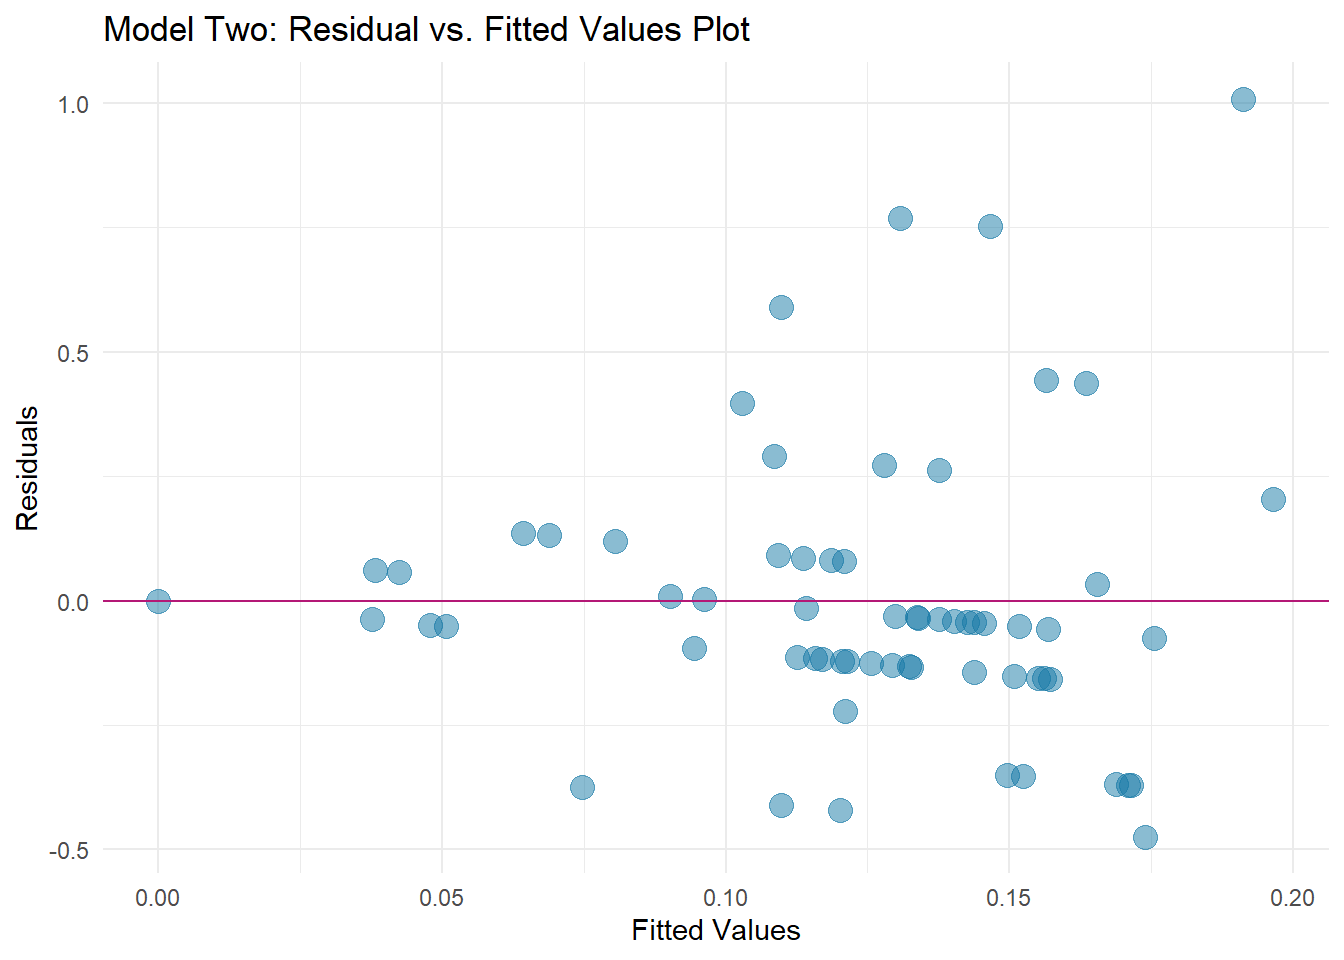
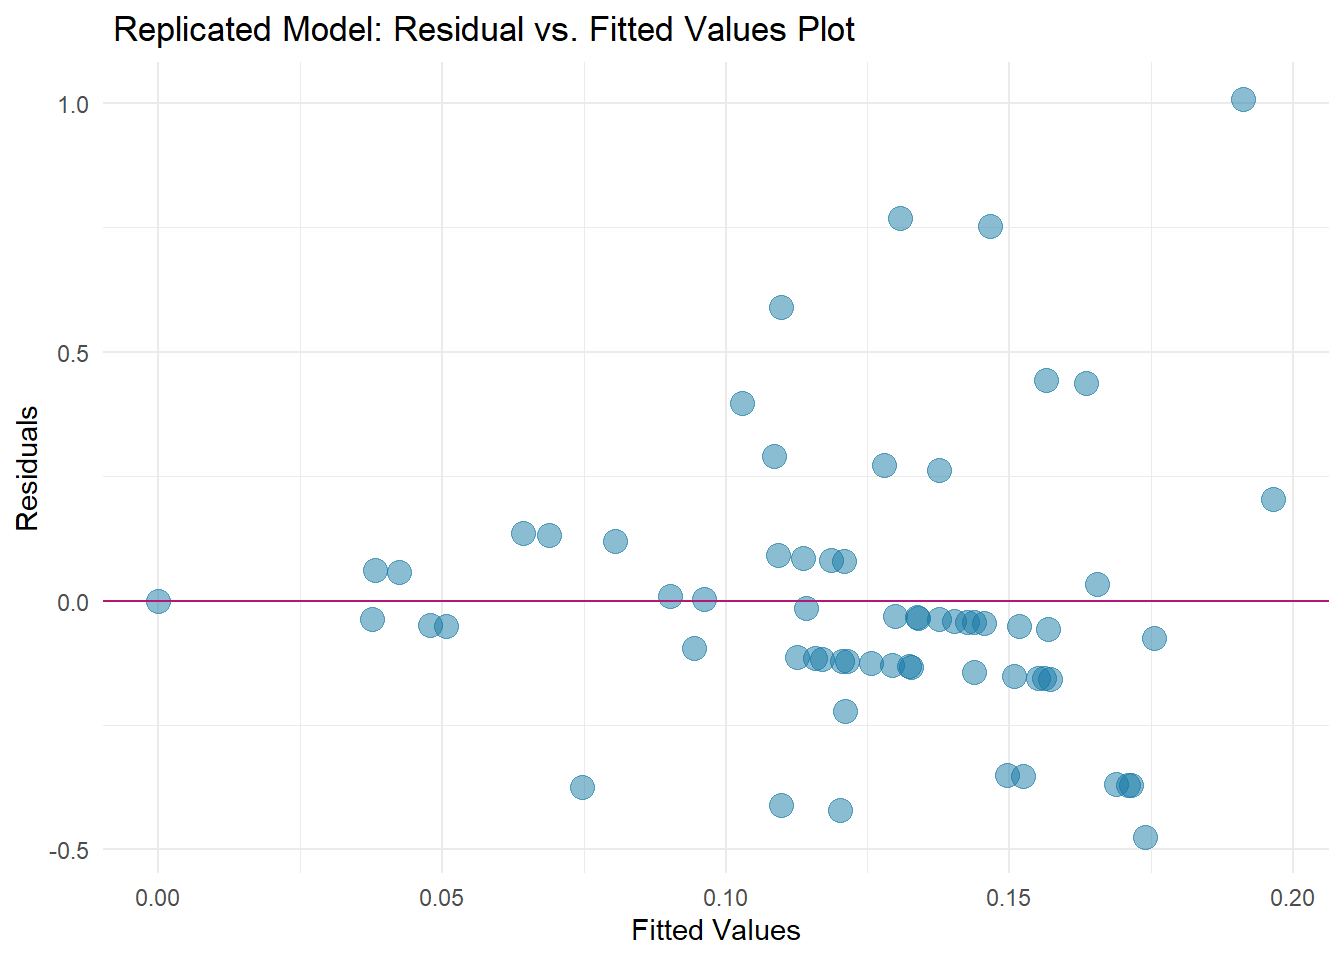
Wrote the conclusion

Changed region(s): [[0.0625, 0.0, 0.625, 0.0625]]

diff --git a/docs/Final Report.html b/docs/Final Report.html
@@ -7,7 +7,7 @@
 <meta name="viewport" content="width=device-width, initial-scale=1.0, user-scalable=yes">
 
 
-<title>replicating nimby – final-report_draft</title>
+<title>replicating nimby – final-report</title>
 <style>
 code{white-space: pre-wrap;}
 span.smallcaps{font-variant: small-caps;}
@@ -166,7 +166,7 @@ div.csl-indent {
           <div class="collapse navbar-collapse" id="navbarCollapse">
             <ul class="navbar-nav navbar-nav-scroll me-auto">
   <li class="nav-item">
-    <a class="nav-link active" href="./Final Report_draft.html" aria-current="page">
+    <a class="nav-link active" href="./Final Report.html" aria-current="page">
  <span class="menu-text">final report</span></a>
   </li>  
   <li class="nav-item">
@@ -211,7 +211,7 @@ div.csl-indent {
     <h2 id="toc-title">On this page</h2>
    
   <ul>
-  <li><a href="#the-final-report-draft" id="toc-the-final-report-draft" class="nav-link active" data-scroll-target="#the-final-report-draft">The Final Report (DRAFT)</a>
+  <li><a href="#the-final-report" id="toc-the-final-report" class="nav-link active" data-scroll-target="#the-final-report">The Final Report</a>
   <ul class="collapse">
   <li><a href="#introduction" id="toc-introduction" class="nav-link" data-scroll-target="#introduction">- Introduction</a></li>
   <li><a href="#related-works" id="toc-related-works" class="nav-link" data-scroll-target="#related-works">- Related Works</a></li>
@@ -224,7 +224,7 @@ div.csl-indent {
   <li><a href="#conclusions" id="toc-conclusions" class="nav-link" data-scroll-target="#conclusions">- Conclusions</a>
   <ul class="collapse">
   <li><a href="#comparing-the-dependent-and-independent-variables" id="toc-comparing-the-dependent-and-independent-variables" class="nav-link" data-scroll-target="#comparing-the-dependent-and-independent-variables">Comparing the Dependent and Independent Variables:</a></li>
-  <li><a href="#evaluating-the-model" id="toc-evaluating-the-model" class="nav-link" data-scroll-target="#evaluating-the-model">Evaluating the Model</a></li>
+  <li><a href="#evaluating-my-model" id="toc-evaluating-my-model" class="nav-link" data-scroll-target="#evaluating-my-model">Evaluating My Model</a></li>
   </ul></li>
   </ul></li>
   <li><a href="#final-thoughts" id="toc-final-thoughts" class="nav-link" data-scroll-target="#final-thoughts">Final Thoughts:</a>
@@ -249,8 +249,8 @@ div.csl-indent {
 <p><img src="images/Main Title.png" class="img-fluid figure-img"></p>
 </figure>
 </div>
-<section id="the-final-report-draft" class="level1">
-<h1>The Final Report (DRAFT)</h1>
+<section id="the-final-report" class="level1">
+<h1>The Final Report</h1>
 <section id="introduction" class="level2">
 <h2 class="anchored" data-anchor-id="introduction">- Introduction</h2>
 <p>Somewhere in my mother’s basement, is my prized 1995 tie-dyed <a href="https://dare.org/">DARE</a> tee-shirt, a paradoxical relic of elementary classroom hours spent discussing the dangers of peer-led drug use. &nbsp;Those fears were not unwarranted, the CDC (Center for Disease Control) reports that 136 Americans die daily from opioids and illicitly manufactured fentanyl<a href="#fn1" class="footnote-ref" id="fnref1" role="doc-noteref"><sup>1</sup></a>, for me - a friend or three. In my experience, most drug prevention programs portray cannabis as the catalyst to the life doomed by addiction.</p>
@@ -261,13 +261,13 @@ div.csl-indent {
 </section>
 <section id="related-works" class="level2">
 <h2 class="anchored" data-anchor-id="related-works">- Related Works</h2>
-<p>A related and noteworthy body of work is the 2021 meta-analysis conducted by D. Mark Anderson and Daniel I. Rees’ paper “<a href="https://www.aeaweb.org/articles?id=10.1257%2Fjel.20211635&amp;utm_campaign=Economic%20Studies&amp;utm_source=hs_email&amp;utm_medium=email"><em>The Public Health Effects of Legalizing Marijuana</em></a>.” The appendix presents an extensive comparison of 70 studies related to the impact of marijuana legalization on public health outcomes by empirical strategy, and study results. This paper served as an excellent resource to understand the myriad of ways in which this topic is being studied, including the study I will replicate. The authors ultimately conclude that while the existing body of research benefits from a wealth of state-level data, the outcomes remain inconclusive. Further research along with careful policy design is needed to mitigate the negative impact of legalization on crime rates and other outcomes.</p>
+<p>A related and noteworthy body of work is the 2021 meta-analysis conducted by D. Mark Anderson and Daniel I. Rees’ paper “<a href="https://www.aeaweb.org/articles?id=10.1257%2Fjel.20211635&amp;utm_campaign=Economic%20Studies&amp;utm_source=hs_email&amp;utm_medium=email"><em>The Public Health Effects of Legalizing Marijuana</em></a>.” The appendix presents an extensive comparison of 70 studies related to the impact of marijuana legalization on public health outcomes by empirical strategy, and study results. This paper served as an excellent resource to understand the myriad of ways in which this topic is being studied, including NIMBY, the research I will replicate. The authors ultimately conclude that while the existing body of research benefits from a wealth of state-level data, the outcomes remain inconclusive. Further research along with careful policy design is needed to mitigate the negative impact of legalization on crime rates and other outcomes.</p>
 <p>In contrast, the 2019 paper “<a href="https://www.tandfonline.com/doi/abs/10.1080/07418825.2019.1567807"><em>Marijuana Dispensaries and Neighborhood Crime and Disorder in Denver</em></a><em>,</em> Colorado” by Lorrine A. Hughes, Lonnie M. Schaible, and Katherine Jimmerson offers contradictory findings. Utilizing a Bayesian Poisson regression model, the authors discovered a statistically significant correlation between the presence of dispensaries and increased rates of neighborhood crime—except for murder and auto theft. This study highlights the complexities of the issue and the necessity for a more nuanced understanding of the interplay between cannabis dispensaries and crime rates.</p>
 <p><img src="https://www.netsuite.com/portal/assets/img/business-articles/data-warehouse/social-data-mining.jpg?v2" class="img-fluid" width="688"></p>
 </section>
 <section id="methods" class="level2">
 <h2 class="anchored" data-anchor-id="methods">- Methods</h2>
-<p>While all of the data referenced in NIMBY is publicly available, I found it necessary to deviate from the original’s papers methodology due to data quality issues and time constraints.</p>
+<p>While all of the data referenced in NIMBY is publicly available, I found it necessary to deviate from the original paper’s methodology due to data quality issues and time constraints.</p>
 <p>My diagram below illustrates the utilization of R code to construct a data pipeline for the linear model and its associated variables.</p>
 <p>In the interest of interpretability, I divided my work into four distinct segments, each highlighted in the navigation bar of this site. I hope this structured breakdown allows readers to navigate through my process efficiently, providing transparent insight into my methods employed and limitations faced throughout this project.</p>
 <p><img src="images/methodology.png" class="img-fluid"></p>
@@ -347,11 +347,11 @@ div.csl-indent {
 <p></p><figcaption class="figure-caption"><strong>how to read:</strong> “<em>The panels of this figure show the total number of store fronts (calculated using data from Colorado Department of Revenue) cross tabbed by stores that sell only medical marijuana (green), both medical and recreational marijuana (red), and only recreational marijuana (blue). The vertical red line shows the first date (January 1, 2014) when recreational sales were legal.</em>” (Brinkman Pg. 5)</figcaption><p></p>
 </figure>
 </div>
-<p><strong>interpretation:</strong> Once recreational cannabis was legalized in Colorado, we see a many dispensaries begin selling both recreational and medical products. In 2015 Retail only store begin their growth trajectory while medical and both types remain relatively flat.</p>
+<p><strong>interpretation:</strong> Once recreational cannabis was legalized in Colorado, we see many dispensaries begin selling both recreational and medical products. In 2015 recreational only stores begin their growth trajectory while medical and both store fronts remain relatively flat.</p>
 <section id="replicated-area-graph" class="level4">
 <h4 class="anchored" data-anchor-id="replicated-area-graph">Replicated Area Graph</h4>
 <p><img src="images/dsp_growth.png" class="img-fluid"></p>
-<p><strong>comparison:</strong> Although I applied a different approach, my total counts are similar to the original study. The graph tells a similar story as the one above, outside of the the missing data sets in 2016 .</p>
+<p><strong>comparison:</strong> Although I applied a different approach, my total counts are similar to the original study. My graph tells a comparable story as the plot above, but there are a few plots that look suspicious. With more time, I would investigate and validate the sharp dips seen in early 2015 and 2016.</p>
 <p><br>
 </p>
 </section>
@@ -379,26 +379,21 @@ div.csl-indent {
 <h2 class="anchored" data-anchor-id="conclusions">- Conclusions</h2>
 <section id="comparing-the-dependent-and-independent-variables" class="level3">
 <h3 class="anchored" data-anchor-id="comparing-the-dependent-and-independent-variables">Comparing the Dependent and Independent Variables:</h3>
+<p>Does dispensary density (green) influence crime rate (magenta)?</p>
 <div class="quarto-figure quarto-figure-center">
 <figure class="figure">
 <p><img src="images/co_map.png" class="img-fluid figure-img" width="731"></p>
-<p></p><figcaption class="figure-caption"><strong>how to read:</strong> <em>the three-year average of crimes per 10,000 residents are plotted by Colorado county, overlaid by the three year average count of dispensaries with in the county.</em></figcaption><p></p>
+<p></p><figcaption class="figure-caption"><strong>how to read:</strong> <em>the three-year average of crimes per 10,000 residents are plotted by Colorado county, overlaid by the three-year average county total dispensary count.</em></figcaption><p></p>
 </figure>
 </div>
-<p><strong>interpretation:</strong> Denver is clearly where we see the larger crime rates, and more dispensaries. NIMBY refers to Denver as the “<em>mecca of recreational cannabis</em>.” El Paso is an interesting county with a relativity high dispensary density and low crime rate, as well as pueblo county where the inverse is true</p>
-<p><br>
-</p>
+<p><strong>interpretation:</strong> Denver is clearly where we see the larger crime rates, and more dispensaries. NIMBY refers to Denver as the “<em>mecca of recreational cannabis</em>.” El Paso is an interesting county with a relatively high dispensary density and low crime rate, as well as Pueblo county where the inverse is true</p>
+<p>From this map, at a glance, no clear relationship between dispensary density and crime rate is evident; but what does the math reveal?</p>
 </section>
-<section id="evaluating-the-model" class="level3">
-<h3 class="anchored" data-anchor-id="evaluating-the-model">Evaluating the Model</h3>
-<div class="quarto-figure quarto-figure-center">
-<figure class="figure">
-<p><img src="images/model2.png" class="img-fluid figure-img" width="685"></p>
-<p></p><figcaption class="figure-caption"><strong>How to read:</strong> <em>the x axis is the predicted value of crime rate change, and the y is the difference between the actual values against the predicted</em></figcaption><p></p>
-</figure>
-</div>
-<p><strong>interpretation:</strong>This plot helps determine the accuracy of my model in determining the relationship between county crime rates growth and county dispensary density growth, while controlling for poverty rate, racial demographics, and employment rate. The x-axis represents the crime rate predictions made by the model, while the y-axis represents the difference between these predictions and the actual observed crime rates.</p>
-<p>The unequal distribution of plots around the horizontal line (y=0), indicates my model not an ideal fit for the data.</p>
+<section id="evaluating-my-model" class="level3">
+<h3 class="anchored" data-anchor-id="evaluating-my-model">Evaluating My Model</h3>
+<p><img src=".\images/model2.png" class="img-fluid"></p>
+<p><strong>interpretation:</strong> This plot serves to evaluate the accuracy of the replicated model in predicting the relationship between the growth of county crime rates and county dispensary density growth, while controlling for poverty rate, racial demographics, and employment rate.</p>
+<p>The unequal distribution of plots around the horizontal line (y=0), indicates that my replicated model is not an ideal fit for the data.</p>
 <p><strong>evaluation:</strong> my model’s output</p>
 <div class="cell">
 <div class="sourceCode cell-code" id="cb1"><pre class="sourceCode r code-with-copy"><code class="sourceCode r"><span id="cb1-1"><a href="#cb1-1" aria-hidden="true" tabindex="-1"></a><span class="co"># import data</span></span>
@@ -443,7 +438,7 @@ F-statistic: 0.225 on 5 and 58 DF,  p-value: 0.9502</code></pre>
 <li><p>low multiple R square, reveals that dispensary density only explains about 1.9% of the variation in crime rates</p></li>
 <li><p>the residuals skew left</p></li>
 </ul>
-<p>Additionally, the high p-value (0.95) indicates that we can not reject the null hypothesis that dispensary presences has no effect on crime rates.</p>
+<p>Additionally, the high p-value (0.95) indicates that we can not reject the null hypothesis that dispensary presence has no effect on crime rates.</p>
 <p><strong>Comparison:</strong></p>
 <p><img src="images/linear_model.jpg" class="img-fluid"><br>
 This model is part of NIMBY’s baseline estimation strategy. Their next model iteration adds in another explanatory variable “miles from the border.” It is from this final set of variables they draw their conclusions. Additionally, while most of the insights in NIMBY look at the census tract level, the authors discuss the county effects:</p>
@@ -457,8 +452,9 @@ This model is part of NIMBY’s baseline estimation strategy. Their next model i
 <section id="final-thoughts" class="level1">
 <h1>Final Thoughts:</h1>
 <p><img src="images/data-preparation-diagram_0.svg" class="img-fluid" width="487"></p>
-<p>The third law of Tom Khabaza’s <a href="http://khabaza.codimension.net/index_files/9laws.htm">Nine Laws of Data Mining</a> states that “<em>Data preparation is more than half of every data mining process.</em>” Throughout this project, I embraced this maxim as I worked my way through various data quality issues. Predicting the relationship between recreational cannabis legalization and crime rates is no straightforward task. Even with careful data construction , an accurate predictive model takes trial and error, domain knowledge, and a stamina for problem solving. After this experience, I am more inclined to trust the results of meta-analyses of existing studies than one sole research study.</p>
-<p>In order to fully address the concerns surrounding the longterm implications of legal recreational cannabis use, we need to look at the issue from multiple angles. As for Michigan, if I were to attempt a similar study, I would take a completely different approach. Crime rates are influenced by so many factors, I would spend my time analyzing the dynamics in state revenue and how those funds are being spent and how the multiplicities benefited.</p>
+<p>The third law of Tom Khabaza’s <a href="http://khabaza.codimension.net/index_files/9laws.htm">Nine Laws of Data Mining</a> states that “<em>Data preparation is more than half of every data mining process.</em>” Throughout this project, I embraced this maxim as I worked my way through various data quality issues. In my final project, I reproduced many of the larger themes, but once I dived into the specific elements of the data, I see where I need to re-evaluate my approach.</p>
+<p>Predicting the relationship between recreational cannabis legalization and crime rates is no straightforward task. Even with careful data construction, an accurate predictive model requires trial and error, domain knowledge, and a stamina for problem-solving. After this experience, I am more inclined to trust the results of meta-analyses of existing studies than a single investigation.</p>
+<p>In order to fully address the concerns surrounding the long-term implications of legal recreational cannabis use, we need to look at the issue from different vantage points. As for Michigan, if I were to attempt a similar study, I would take a completely different approach. Crime rates are sensitive to a wide range of factors; I am more interested in analyzing the complexities in cannabis-generated state revenue, evaluating the allocation of funds, and examining the benefits for municipalities.</p>
 <section id="data-and-software" class="level2">
 <h2 class="anchored" data-anchor-id="data-and-software">- Data and Software</h2>
 <section id="data-sources" class="level3">

diff --git a/docs/build_the_linear_model_step4.html b/docs/build_the_linear_model_step4.html
@@ -147,7 +147,7 @@ code span.wa { color: #60a0b0; font-weight: bold; font-style: italic; } /* Warni
           <div class="collapse navbar-collapse" id="navbarCollapse">
             <ul class="navbar-nav navbar-nav-scroll me-auto">
   <li class="nav-item">
-    <a class="nav-link" href="./Final Report_draft.html">
+    <a class="nav-link" href="./Final Report.html">
  <span class="menu-text">final report</span></a>
   </li>  
   <li class="nav-item">
@@ -344,7 +344,7 @@ F-statistic: 0.2472 on 1 and 62 DF,  p-value: 0.6208</code></pre>
 <span id="cb11-6"><a href="#cb11-6" aria-hidden="true" tabindex="-1"></a>  <span class="fu">geom_point</span>(<span class="at">alpha =</span> <span class="fl">0.5</span>, <span class="at">size =</span><span class="dv">4</span>, <span class="at">color =</span><span class="st">"#1679A6"</span> ) <span class="sc">+</span></span>
 <span id="cb11-7"><a href="#cb11-7" aria-hidden="true" tabindex="-1"></a>  <span class="fu">geom_hline</span>(<span class="at">yintercept =</span> <span class="dv">0</span></span>
 <span id="cb11-8"><a href="#cb11-8" aria-hidden="true" tabindex="-1"></a>             , <span class="at">color =</span> <span class="st">"#B41876"</span>) <span class="sc">+</span></span>
-<span id="cb11-9"><a href="#cb11-9" aria-hidden="true" tabindex="-1"></a> <span class="fu">labs</span>(<span class="at">title=</span><span class="st">'Model Two: Residual vs. Fitted Values Plot'</span>,</span>
+<span id="cb11-9"><a href="#cb11-9" aria-hidden="true" tabindex="-1"></a> <span class="fu">labs</span>(<span class="at">title=</span><span class="st">' Replicated Model: Residual vs. Fitted Values Plot'</span>,</span>
 <span id="cb11-10"><a href="#cb11-10" aria-hidden="true" tabindex="-1"></a>    <span class="at">x =</span> <span class="st">"Fitted Values"</span>, <span class="at">y =</span> <span class="st">"Residuals"</span>) <span class="sc">+</span></span>
 <span id="cb11-11"><a href="#cb11-11" aria-hidden="true" tabindex="-1"></a>  <span class="fu">theme_minimal</span>()</span>
 <span id="cb11-12"><a href="#cb11-12" aria-hidden="true" tabindex="-1"></a></span>
@@ -395,7 +395,7 @@ F-statistic: 0.225 on 5 and 58 DF,  p-value: 0.9502</code></pre>
 </section>
 <section id="interpreting-the-results-mode-2" class="level3">
 <h3 class="anchored" data-anchor-id="interpreting-the-results-mode-2">Interpreting the Results | Mode 2</h3>
-<p>Model 2 is also not an ideal fit for the data set, and I draw the same conclusions as above. Additionally looking at the residual vs predicted graph, the plots are not evenly distributed vertically, so model two is also not a good fit for this dataset</p>
+<p>Model 2 is also not an ideal fit for the data set, and I draw the same conclusions as above. Additionally looking at the residual vs predicted graph, the plots are not evenly distributed vertically, so model two is also not a good fit for this dataset.</p>
 
 
 </section>

diff --git a/docs/calculate crime and dispensaries per capita_step3.html b/docs/calculate crime and dispensaries per capita_step3.html
@@ -147,7 +147,7 @@ code span.wa { color: #60a0b0; font-weight: bold; font-style: italic; } /* Warni
           <div class="collapse navbar-collapse" id="navbarCollapse">
             <ul class="navbar-nav navbar-nav-scroll me-auto">
   <li class="nav-item">
-    <a class="nav-link" href="./Final Report_draft.html">
+    <a class="nav-link" href="./Final Report.html">
  <span class="menu-text">final report</span></a>
   </li>  
   <li class="nav-item">

diff --git a/docs/index.html b/docs/index.html
@@ -84,7 +84,7 @@ ul.task-list li input[type="checkbox"] {
           <div class="collapse navbar-collapse" id="navbarCollapse">
             <ul class="navbar-nav navbar-nav-scroll me-auto">
   <li class="nav-item">
-    <a class="nav-link" href="./Final Report_draft.html">
+    <a class="nav-link" href="./Final Report.html">
  <span class="menu-text">final report</span></a>
   </li>  
   <li class="nav-item">
